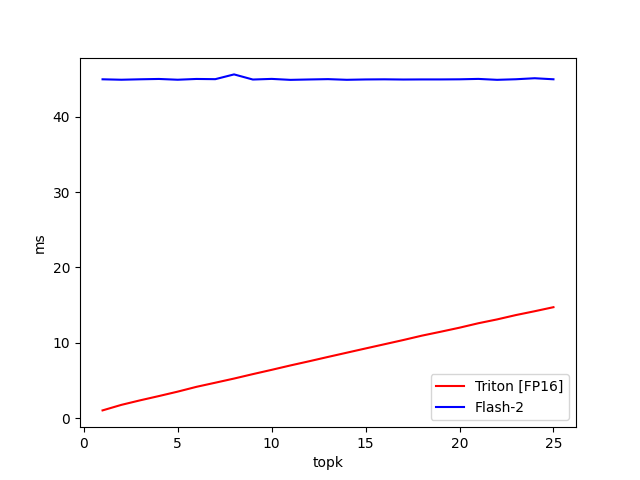
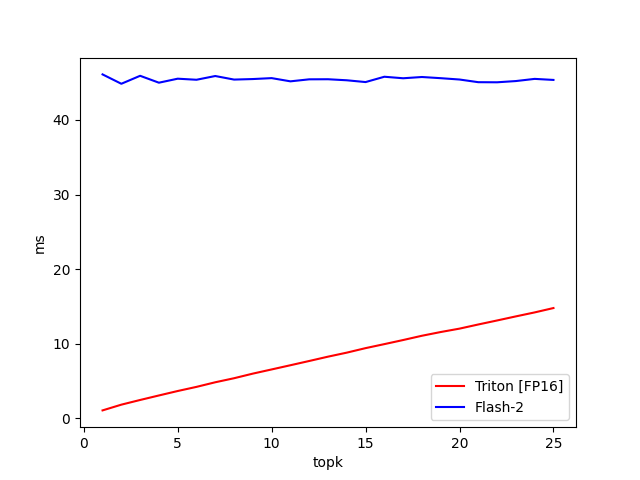
delete fp8

diff --git a/sparse_attention/sparse_attn_opt1.py b/sparse_attention/sparse_attn_opt1.py
@@ -56,10 +56,7 @@ def _attn_fwd_inner_casual_false(acc, l_i, m_i, q, lut,  #
         acc = acc * alpha[:, None]
         # update acc
         v = tl.load(tl.advance(V_block_ptr, (start_n, 0)))
-        if fp8_v:
-            p = p.to(tl.float8e5)
-        else:
-            p = p.to(tl.float16)
+        p = p.to(tl.float16)
         acc = tl.dot(p, v, acc)
         # update m_i and l_i
         m_i = m_ij
@@ -101,10 +98,7 @@ def _attn_fwd_inner_casual_true(acc, l_i, m_i, q, lut,  #
             acc = acc * alpha[:, None]
             # update acc
             v = tl.load(tl.advance(V_block_ptr, (start_n, 0)))
-            if fp8_v:
-                p = p.to(tl.float8e5)
-            else:
-                p = p.to(tl.float16)
+            p = p.to(tl.float16)
             acc = tl.dot(p, v, acc)
             # update m_i and l_i
             m_i = m_ij
@@ -116,7 +110,7 @@ def _attn_fwd_inner_casual_true(acc, l_i, m_i, q, lut,  #
 # re-tuning.
 configs = [
     triton.Config({'BLOCK_M': BM, 'BLOCK_N': BN}, num_stages=s, num_warps=w) \
-    for BM, BN in [(128, 128)]\
+    for BM, BN in [(64, 64)]\
     for s in ([1] if is_hip() else [3, 4, 7])\
     for w in [4, 8]\
 ]
@@ -321,8 +315,8 @@ except BaseException:
     HAS_FLASH = False
 
 TORCH_HAS_FP8 = None
-BATCH, N_HEADS, HEAD_DIM, N_CTX = 4, 32, 128, 32768
-BLOCK_SIZE = 128
+BATCH, N_HEADS, HEAD_DIM, N_CTX = 4, 32, 128, 16384
+BLOCK_SIZE = 64
 # vary seq length for fixed head and batch=4
 configs = []
 for mode in ["fwd"]:
@@ -384,5 +378,5 @@ if __name__ == "__main__":
     # only works on post-Ampere GPUs right now
     # pytest.main([__file__])
     # bench_flash_attention.run(save_path="./fused-pooling-flashattn/", print_data=True)
-    bench_flash_attention_gqa.run(save_path="./block_results_32k/", print_data=True)
+    bench_flash_attention_gqa.run(save_path="./block_results_16k/", print_data=True)
     
